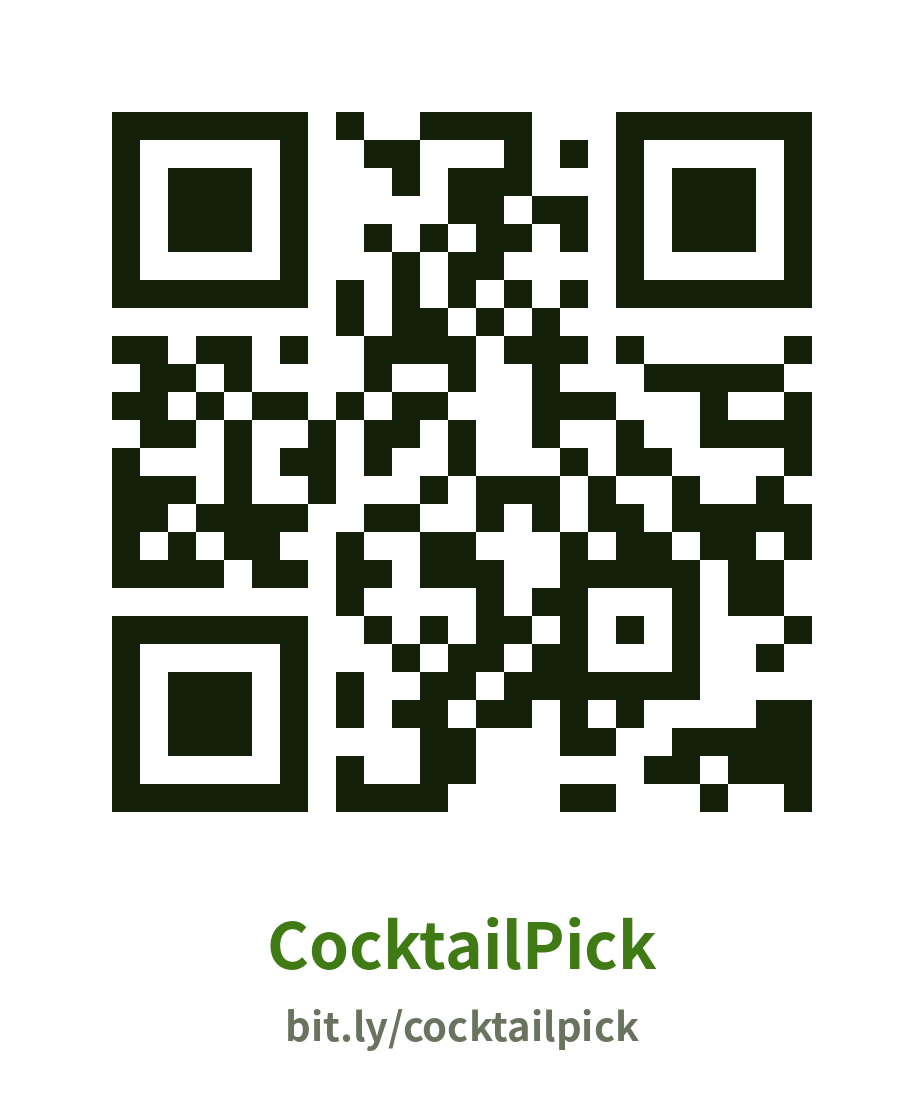
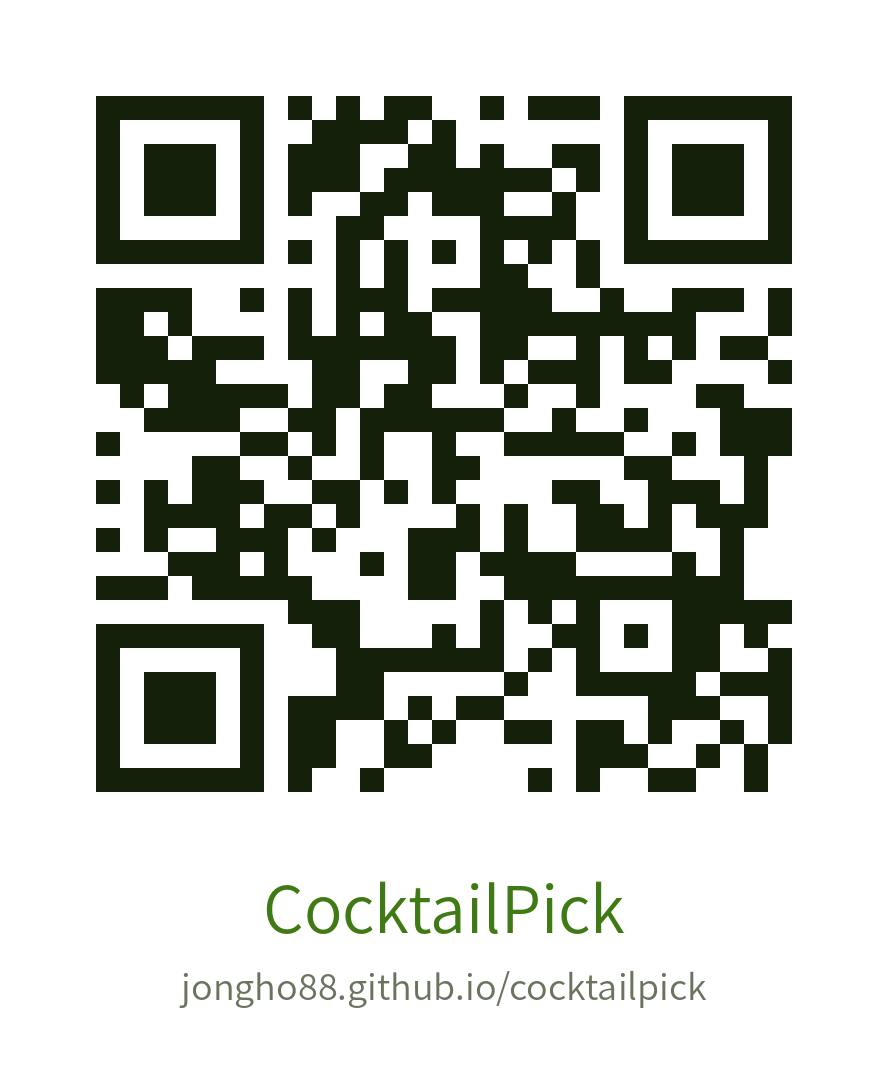
Share address and QR code now use GitHub Pages URL (v1.1.9)
친구에게 알려 주기 주소와 QR 코드를 GitHub 주소로 변경, 자매 앱 연결 주소도 GitHub 주소로 변경

Claude-Session: https://claude.ai/code/session_01ShrJEsEYkHJxVT9VrGdruo

Changed region(s): [[0.0912, 0.0918, 0.9122, 0.7347], [0.2432, 0.7959, 0.7905, 0.949]]

diff --git a/index.html b/index.html
@@ -527,10 +527,10 @@ function defaultCurrency(){
 let settings=Object.assign({currency:defaultCurrency(),unit:'ml'},store.get('settings',null)||{});
 
 /* 연결 주소 (Bitly) */
-const APP_VERSION='1.1.8',APP_DATE='2026.11.22';
-const WINEPICK_URL='https://bit.ly/winepick';
-const SHARE_URL='https://bit.ly/cocktailpick'; // 친구에게 보내는 주소
-const QR_SVG="<svg viewBox=\"-2 -2 29 29\" width=\"100%\" height=\"100%\" shape-rendering=\"crispEdges\" aria-label=\"CocktailPick QR 코드\"><rect x=\"-2\" y=\"-2\" width=\"29\" height=\"29\" fill=\"#fff\"/><path d=\"M0 0h7v1h-7zM8 0h1v1h-1zM11 0h4v1h-4zM18 0h7v1h-7zM0 1h1v1h-1zM6 1h1v1h-1zM9 1h2v1h-2zM14 1h1v1h-1zM16 1h1v1h-1zM18 1h1v1h-1zM24 1h1v1h-1zM0 2h1v1h-1zM2 2h3v1h-3zM6 2h1v1h-1zM10 2h1v1h-1zM12 2h3v1h-3zM18 2h1v1h-1zM20 2h3v1h-3zM24 2h1v1h-1zM0 3h1v1h-1zM2 3h3v1h-3zM6 3h1v1h-1zM12 3h2v1h-2zM15 3h2v1h-2zM18 3h1v1h-1zM20 3h3v1h-3zM24 3h1v1h-1zM0 4h1v1h-1zM2 4h3v1h-3zM6 4h1v1h-1zM9 4h1v1h-1zM11 4h1v1h-1zM13 4h2v1h-2zM16 4h1v1h-1zM18 4h1v1h-1zM20 4h3v1h-3zM24 4h1v1h-1zM0 5h1v1h-1zM6 5h1v1h-1zM10 5h1v1h-1zM12 5h2v1h-2zM18 5h1v1h-1zM24 5h1v1h-1zM0 6h7v1h-7zM8 6h1v1h-1zM10 6h1v1h-1zM12 6h1v1h-1zM14 6h1v1h-1zM16 6h1v1h-1zM18 6h7v1h-7zM8 7h1v1h-1zM10 7h2v1h-2zM13 7h1v1h-1zM15 7h1v1h-1zM0 8h2v1h-2zM3 8h2v1h-2zM6 8h1v1h-1zM9 8h4v1h-4zM14 8h3v1h-3zM18 8h1v1h-1zM24 8h1v1h-1zM1 9h2v1h-2zM4 9h1v1h-1zM9 9h1v1h-1zM12 9h1v1h-1zM15 9h1v1h-1zM19 9h5v1h-5zM0 10h2v1h-2zM3 10h1v1h-1zM5 10h2v1h-2zM8 10h1v1h-1zM10 10h2v1h-2zM15 10h3v1h-3zM21 10h1v1h-1zM24 10h1v1h-1zM1 11h2v1h-2zM4 11h1v1h-1zM7 11h1v1h-1zM9 11h2v1h-2zM12 11h1v1h-1zM15 11h1v1h-1zM18 11h1v1h-1zM21 11h4v1h-4zM0 12h1v1h-1zM4 12h1v1h-1zM6 12h2v1h-2zM9 12h1v1h-1zM12 12h1v1h-1zM16 12h1v1h-1zM18 12h2v1h-2zM24 12h1v1h-1zM0 13h3v1h-3zM4 13h1v1h-1zM7 13h1v1h-1zM11 13h1v1h-1zM13 13h3v1h-3zM17 13h1v1h-1zM20 13h1v1h-1zM23 13h1v1h-1zM0 14h2v1h-2zM3 14h4v1h-4zM9 14h2v1h-2zM13 14h1v1h-1zM15 14h1v1h-1zM17 14h2v1h-2zM20 14h5v1h-5zM0 15h1v1h-1zM2 15h1v1h-1zM4 15h2v1h-2zM8 15h1v1h-1zM11 15h2v1h-2zM16 15h1v1h-1zM18 15h2v1h-2zM21 15h2v1h-2zM24 15h1v1h-1zM0 16h4v1h-4zM5 16h2v1h-2zM8 16h2v1h-2zM11 16h3v1h-3zM16 16h5v1h-5zM22 16h2v1h-2zM8 17h1v1h-1zM13 17h1v1h-1zM15 17h2v1h-2zM20 17h1v1h-1zM22 17h2v1h-2zM0 18h7v1h-7zM9 18h1v1h-1zM11 18h1v1h-1zM13 18h2v1h-2zM16 18h1v1h-1zM18 18h1v1h-1zM20 18h1v1h-1zM24 18h1v1h-1zM0 19h1v1h-1zM6 19h1v1h-1zM10 19h1v1h-1zM12 19h2v1h-2zM15 19h2v1h-2zM20 19h1v1h-1zM23 19h1v1h-1zM0 20h1v1h-1zM2 20h3v1h-3zM6 20h1v1h-1zM8 20h1v1h-1zM11 20h2v1h-2zM14 20h7v1h-7zM0 21h1v1h-1zM2 21h3v1h-3zM6 21h1v1h-1zM8 21h1v1h-1zM10 21h2v1h-2zM13 21h2v1h-2zM16 21h1v1h-1zM18 21h1v1h-1zM23 21h2v1h-2zM0 22h1v1h-1zM2 22h3v1h-3zM6 22h1v1h-1zM11 22h2v1h-2zM16 22h2v1h-2zM20 22h5v1h-5zM0 23h1v1h-1zM6 23h1v1h-1zM8 23h1v1h-1zM11 23h2v1h-2zM19 23h2v1h-2zM22 23h3v1h-3zM0 24h7v1h-7zM8 24h4v1h-4zM16 24h2v1h-2zM21 24h1v1h-1zM24 24h1v1h-1z\" fill=\"#14200A\"/></svg>";
+const APP_VERSION='1.1.9',APP_DATE='2026.11.23';
+const WINEPICK_URL='https://jongho88.github.io/winepick/';
+const SHARE_URL='https://jongho88.github.io/cocktailpick/'; // 친구에게 보내는 주소 (GitHub)
+const QR_SVG="<svg viewBox=\"-2 -2 33 33\" width=\"100%\" height=\"100%\" shape-rendering=\"crispEdges\" aria-label=\"CocktailPick QR 코드\"><rect x=\"-2\" y=\"-2\" width=\"33\" height=\"33\" fill=\"#fff\"/><path d=\"M0 0h7v1h-7zM8 0h1v1h-1zM10 0h1v1h-1zM12 0h2v1h-2zM16 0h1v1h-1zM18 0h3v1h-3zM22 0h7v1h-7zM0 1h1v1h-1zM6 1h1v1h-1zM9 1h4v1h-4zM14 1h1v1h-1zM22 1h1v1h-1zM28 1h1v1h-1zM0 2h1v1h-1zM2 2h3v1h-3zM6 2h1v1h-1zM8 2h3v1h-3zM13 2h2v1h-2zM16 2h1v1h-1zM19 2h2v1h-2zM22 2h1v1h-1zM24 2h3v1h-3zM28 2h1v1h-1zM0 3h1v1h-1zM2 3h3v1h-3zM6 3h1v1h-1zM8 3h3v1h-3zM12 3h7v1h-7zM20 3h1v1h-1zM22 3h1v1h-1zM24 3h3v1h-3zM28 3h1v1h-1zM0 4h1v1h-1zM2 4h3v1h-3zM6 4h1v1h-1zM8 4h1v1h-1zM11 4h2v1h-2zM14 4h3v1h-3zM19 4h1v1h-1zM22 4h1v1h-1zM24 4h3v1h-3zM28 4h1v1h-1zM0 5h1v1h-1zM6 5h1v1h-1zM10 5h2v1h-2zM16 5h4v1h-4zM22 5h1v1h-1zM28 5h1v1h-1zM0 6h7v1h-7zM8 6h1v1h-1zM10 6h1v1h-1zM12 6h1v1h-1zM14 6h1v1h-1zM16 6h1v1h-1zM18 6h1v1h-1zM20 6h1v1h-1zM22 6h7v1h-7zM10 7h1v1h-1zM12 7h1v1h-1zM16 7h2v1h-2zM20 7h1v1h-1zM0 8h4v1h-4zM6 8h1v1h-1zM8 8h1v1h-1zM10 8h3v1h-3zM14 8h5v1h-5zM21 8h1v1h-1zM24 8h3v1h-3zM28 8h1v1h-1zM0 9h2v1h-2zM3 9h1v1h-1zM8 9h1v1h-1zM10 9h1v1h-1zM12 9h2v1h-2zM16 9h9v1h-9zM28 9h1v1h-1zM0 10h3v1h-3zM4 10h3v1h-3zM8 10h7v1h-7zM16 10h2v1h-2zM20 10h1v1h-1zM22 10h1v1h-1zM24 10h1v1h-1zM26 10h2v1h-2zM0 11h5v1h-5zM9 11h2v1h-2zM13 11h2v1h-2zM16 11h1v1h-1zM18 11h3v1h-3zM22 11h2v1h-2zM28 11h1v1h-1zM1 12h1v1h-1zM3 12h5v1h-5zM9 12h2v1h-2zM12 12h2v1h-2zM17 12h1v1h-1zM20 12h1v1h-1zM25 12h2v1h-2zM2 13h4v1h-4zM8 13h2v1h-2zM11 13h6v1h-6zM19 13h1v1h-1zM22 13h1v1h-1zM26 13h3v1h-3zM0 14h1v1h-1zM6 14h2v1h-2zM9 14h1v1h-1zM11 14h1v1h-1zM14 14h1v1h-1zM17 14h5v1h-5zM24 14h1v1h-1zM26 14h3v1h-3zM4 15h2v1h-2zM8 15h1v1h-1zM11 15h1v1h-1zM14 15h2v1h-2zM22 15h2v1h-2zM27 15h1v1h-1zM0 16h1v1h-1zM2 16h1v1h-1zM4 16h3v1h-3zM9 16h2v1h-2zM12 16h1v1h-1zM14 16h1v1h-1zM19 16h2v1h-2zM23 16h3v1h-3zM27 16h1v1h-1zM2 17h4v1h-4zM7 17h2v1h-2zM10 17h1v1h-1zM15 17h1v1h-1zM17 17h1v1h-1zM20 17h2v1h-2zM23 17h1v1h-1zM25 17h3v1h-3zM0 18h1v1h-1zM2 18h1v1h-1zM5 18h3v1h-3zM9 18h1v1h-1zM13 18h3v1h-3zM17 18h1v1h-1zM20 18h4v1h-4zM26 18h1v1h-1zM3 19h3v1h-3zM7 19h1v1h-1zM11 19h1v1h-1zM13 19h2v1h-2zM16 19h4v1h-4zM24 19h1v1h-1zM26 19h1v1h-1zM0 20h3v1h-3zM4 20h5v1h-5zM13 20h2v1h-2zM17 20h10v1h-10zM8 21h3v1h-3zM16 21h1v1h-1zM18 21h1v1h-1zM20 21h1v1h-1zM24 21h5v1h-5zM0 22h7v1h-7zM9 22h2v1h-2zM14 22h1v1h-1zM16 22h1v1h-1zM19 22h2v1h-2zM22 22h1v1h-1zM24 22h2v1h-2zM27 22h1v1h-1zM0 23h1v1h-1zM6 23h1v1h-1zM10 23h7v1h-7zM18 23h1v1h-1zM20 23h1v1h-1zM24 23h2v1h-2zM28 23h1v1h-1zM0 24h1v1h-1zM2 24h3v1h-3zM6 24h1v1h-1zM10 24h2v1h-2zM17 24h1v1h-1zM20 24h5v1h-5zM26 24h3v1h-3zM0 25h1v1h-1zM2 25h3v1h-3zM6 25h1v1h-1zM8 25h4v1h-4zM13 25h1v1h-1zM15 25h2v1h-2zM23 25h3v1h-3zM28 25h1v1h-1zM0 26h1v1h-1zM2 26h3v1h-3zM6 26h1v1h-1zM8 26h2v1h-2zM12 26h1v1h-1zM14 26h1v1h-1zM17 26h2v1h-2zM20 26h2v1h-2zM23 26h1v1h-1zM26 26h1v1h-1zM28 26h1v1h-1zM0 27h1v1h-1zM6 27h1v1h-1zM8 27h2v1h-2zM12 27h2v1h-2zM20 27h3v1h-3zM25 27h1v1h-1zM27 27h1v1h-1zM0 28h7v1h-7zM8 28h1v1h-1zM11 28h1v1h-1zM18 28h1v1h-1zM20 28h1v1h-1zM23 28h2v1h-2zM27 28h1v1h-1z\" fill=\"#14200A\"/></svg>";
 
 /* ---------- 데이터 ---------- */
 const BASES={
